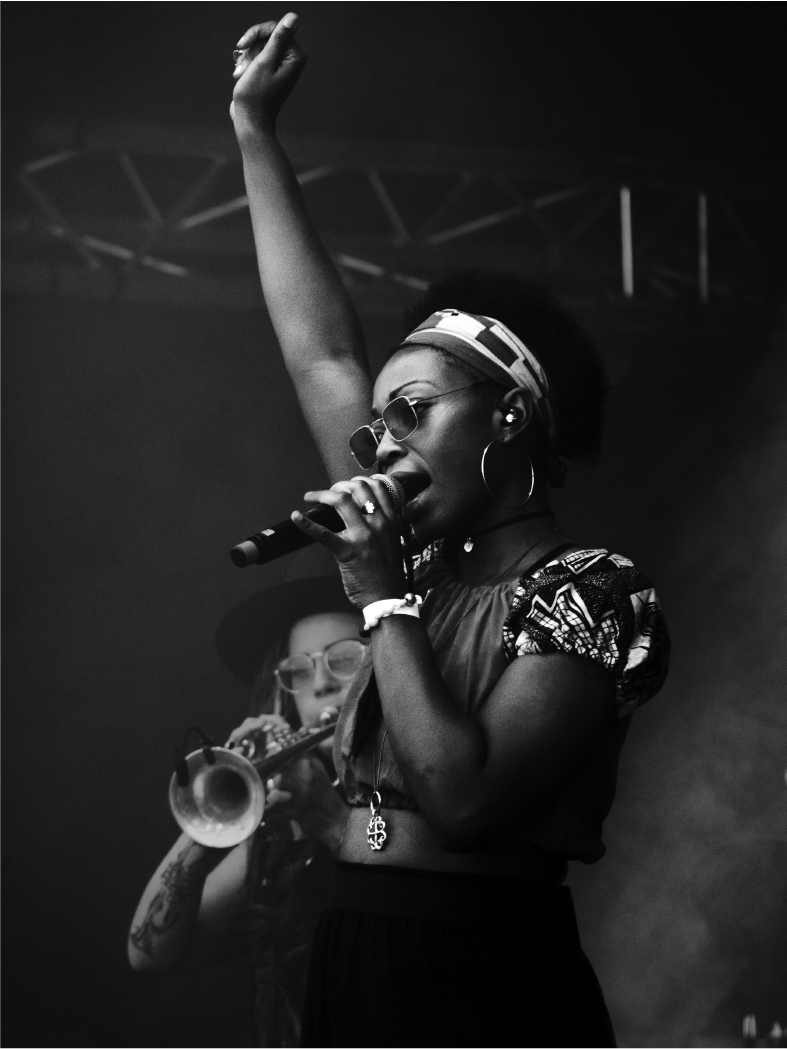
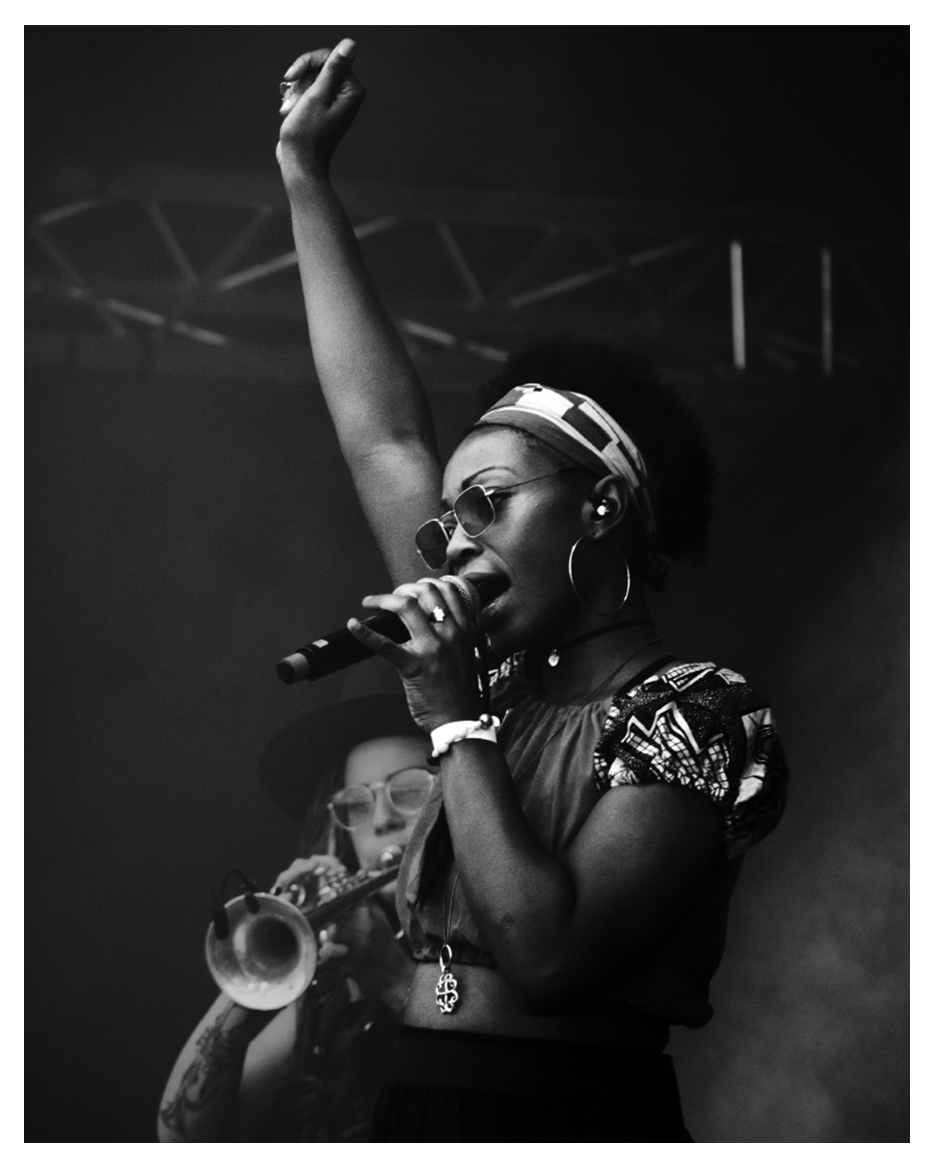
update pause images

diff --git a/src/views/Pause.vue b/src/views/Pause.vue
@@ -18,7 +18,7 @@
 
       </div>
       <div class="col-md-4 image-right">
-        <img src="../assets/about/pause1.jpg" alt="About Us Image">
+        <img src="../assets/about/pause1.png" alt="About Us Image">
       </div>
     </div>
 
@@ -103,7 +103,6 @@ h3 {
   text-align:center;
   padding-top:20px;
   img {
-    border:1px solid black;
     width:100%;
     max-width:250px;
   }
